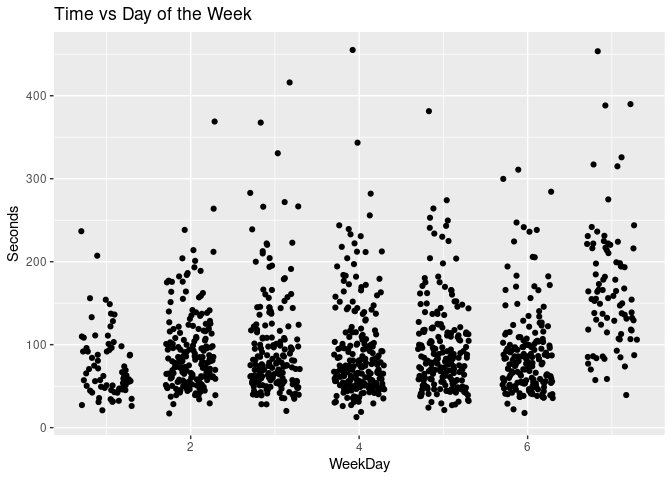
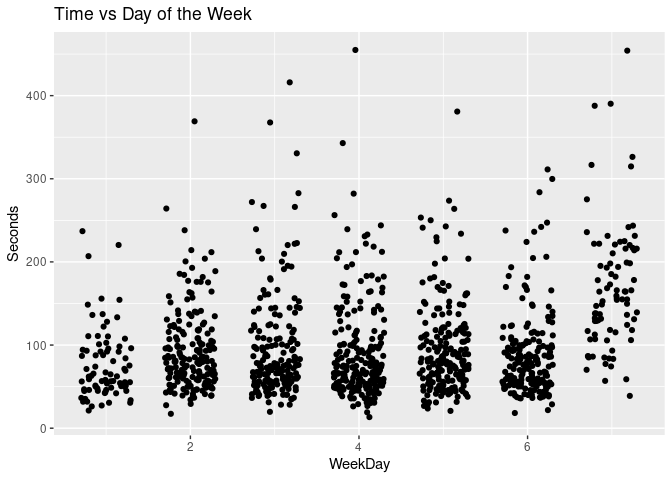
Update with new data values

diff --git a/analysis/nyt_mini_crossword.md b/analysis/nyt_mini_crossword.md
@@ -1,7 +1,7 @@
 ---
 title: "New York Time Mini Crossword"
 author: "Stephen Kaluzny"
-date: "17 October, 2021"
+date: "21 October, 2021"
 output:
   html_document:
     keep_md: true
@@ -167,7 +167,7 @@ d %>%
 
 ## Summary Statistics
 
-Current data set has 1187 observations.
+Current data set has 1197 observations.
 
 
 ```r
@@ -182,9 +182,9 @@ d %>% group_by(Player) %>%
 ##   <chr>  <dbl>  <dbl> <dbl> <dbl> <int>
 ## 1 SKK     51       47    21    89     4
 ## 2 AKK     55       55    55    55     1
-## 3 JIK     78.9     61    13   264   225
-## 4 SPK    102.      85    18   455   477
-## 5 JAK    103.      86    27   454   424
+## 3 JIK     78.4     61    13   264   229
+## 4 SPK    102.      85    18   455   479
+## 5 JAK    103.      86    27   454   428
 ## 6 BBK    117.     102    42   350    56
 ```
 
@@ -200,7 +200,7 @@ d <- d %>%
   filter(Player %in% c("SPK", "JAK", "JIK"))
 ```
 
-Now have 1126 observations.
+Now have 1136 observations.
 
 ## Plots
 
@@ -331,11 +331,11 @@ sessionInfo()
 ## [1] ggplot2_3.3.5 dplyr_1.0.7   tidyr_1.1.4   assertr_2.8  
 ## 
 ## loaded via a namespace (and not attached):
-##  [1] highr_0.9        pillar_1.6.3     bslib_0.3.1      compiler_4.1.1  
+##  [1] highr_0.9        pillar_1.6.4     bslib_0.3.1      compiler_4.1.1  
 ##  [5] jquerylib_0.1.4  tools_4.1.1      digest_0.6.28    lubridate_1.8.0 
 ##  [9] jsonlite_1.7.2   evaluate_0.14    lifecycle_1.0.1  tibble_3.1.5    
-## [13] gtable_0.3.0     pkgconfig_2.0.3  rlang_0.4.11     cli_3.0.1       
-## [17] DBI_1.1.1        yaml_2.2.1       xfun_0.26        fastmap_1.1.0   
+## [13] gtable_0.3.0     pkgconfig_2.0.3  rlang_0.4.12     cli_3.0.1       
+## [17] DBI_1.1.1        yaml_2.2.1       xfun_0.27        fastmap_1.1.0   
 ## [21] withr_2.4.2      stringr_1.4.0    knitr_1.36       hms_1.1.1       
 ## [25] generics_0.1.0   vctrs_0.3.8      sass_0.4.0       rprojroot_2.0.2 
 ## [29] grid_4.1.1       tidyselect_1.1.1 here_1.0.1       glue_1.4.2      
